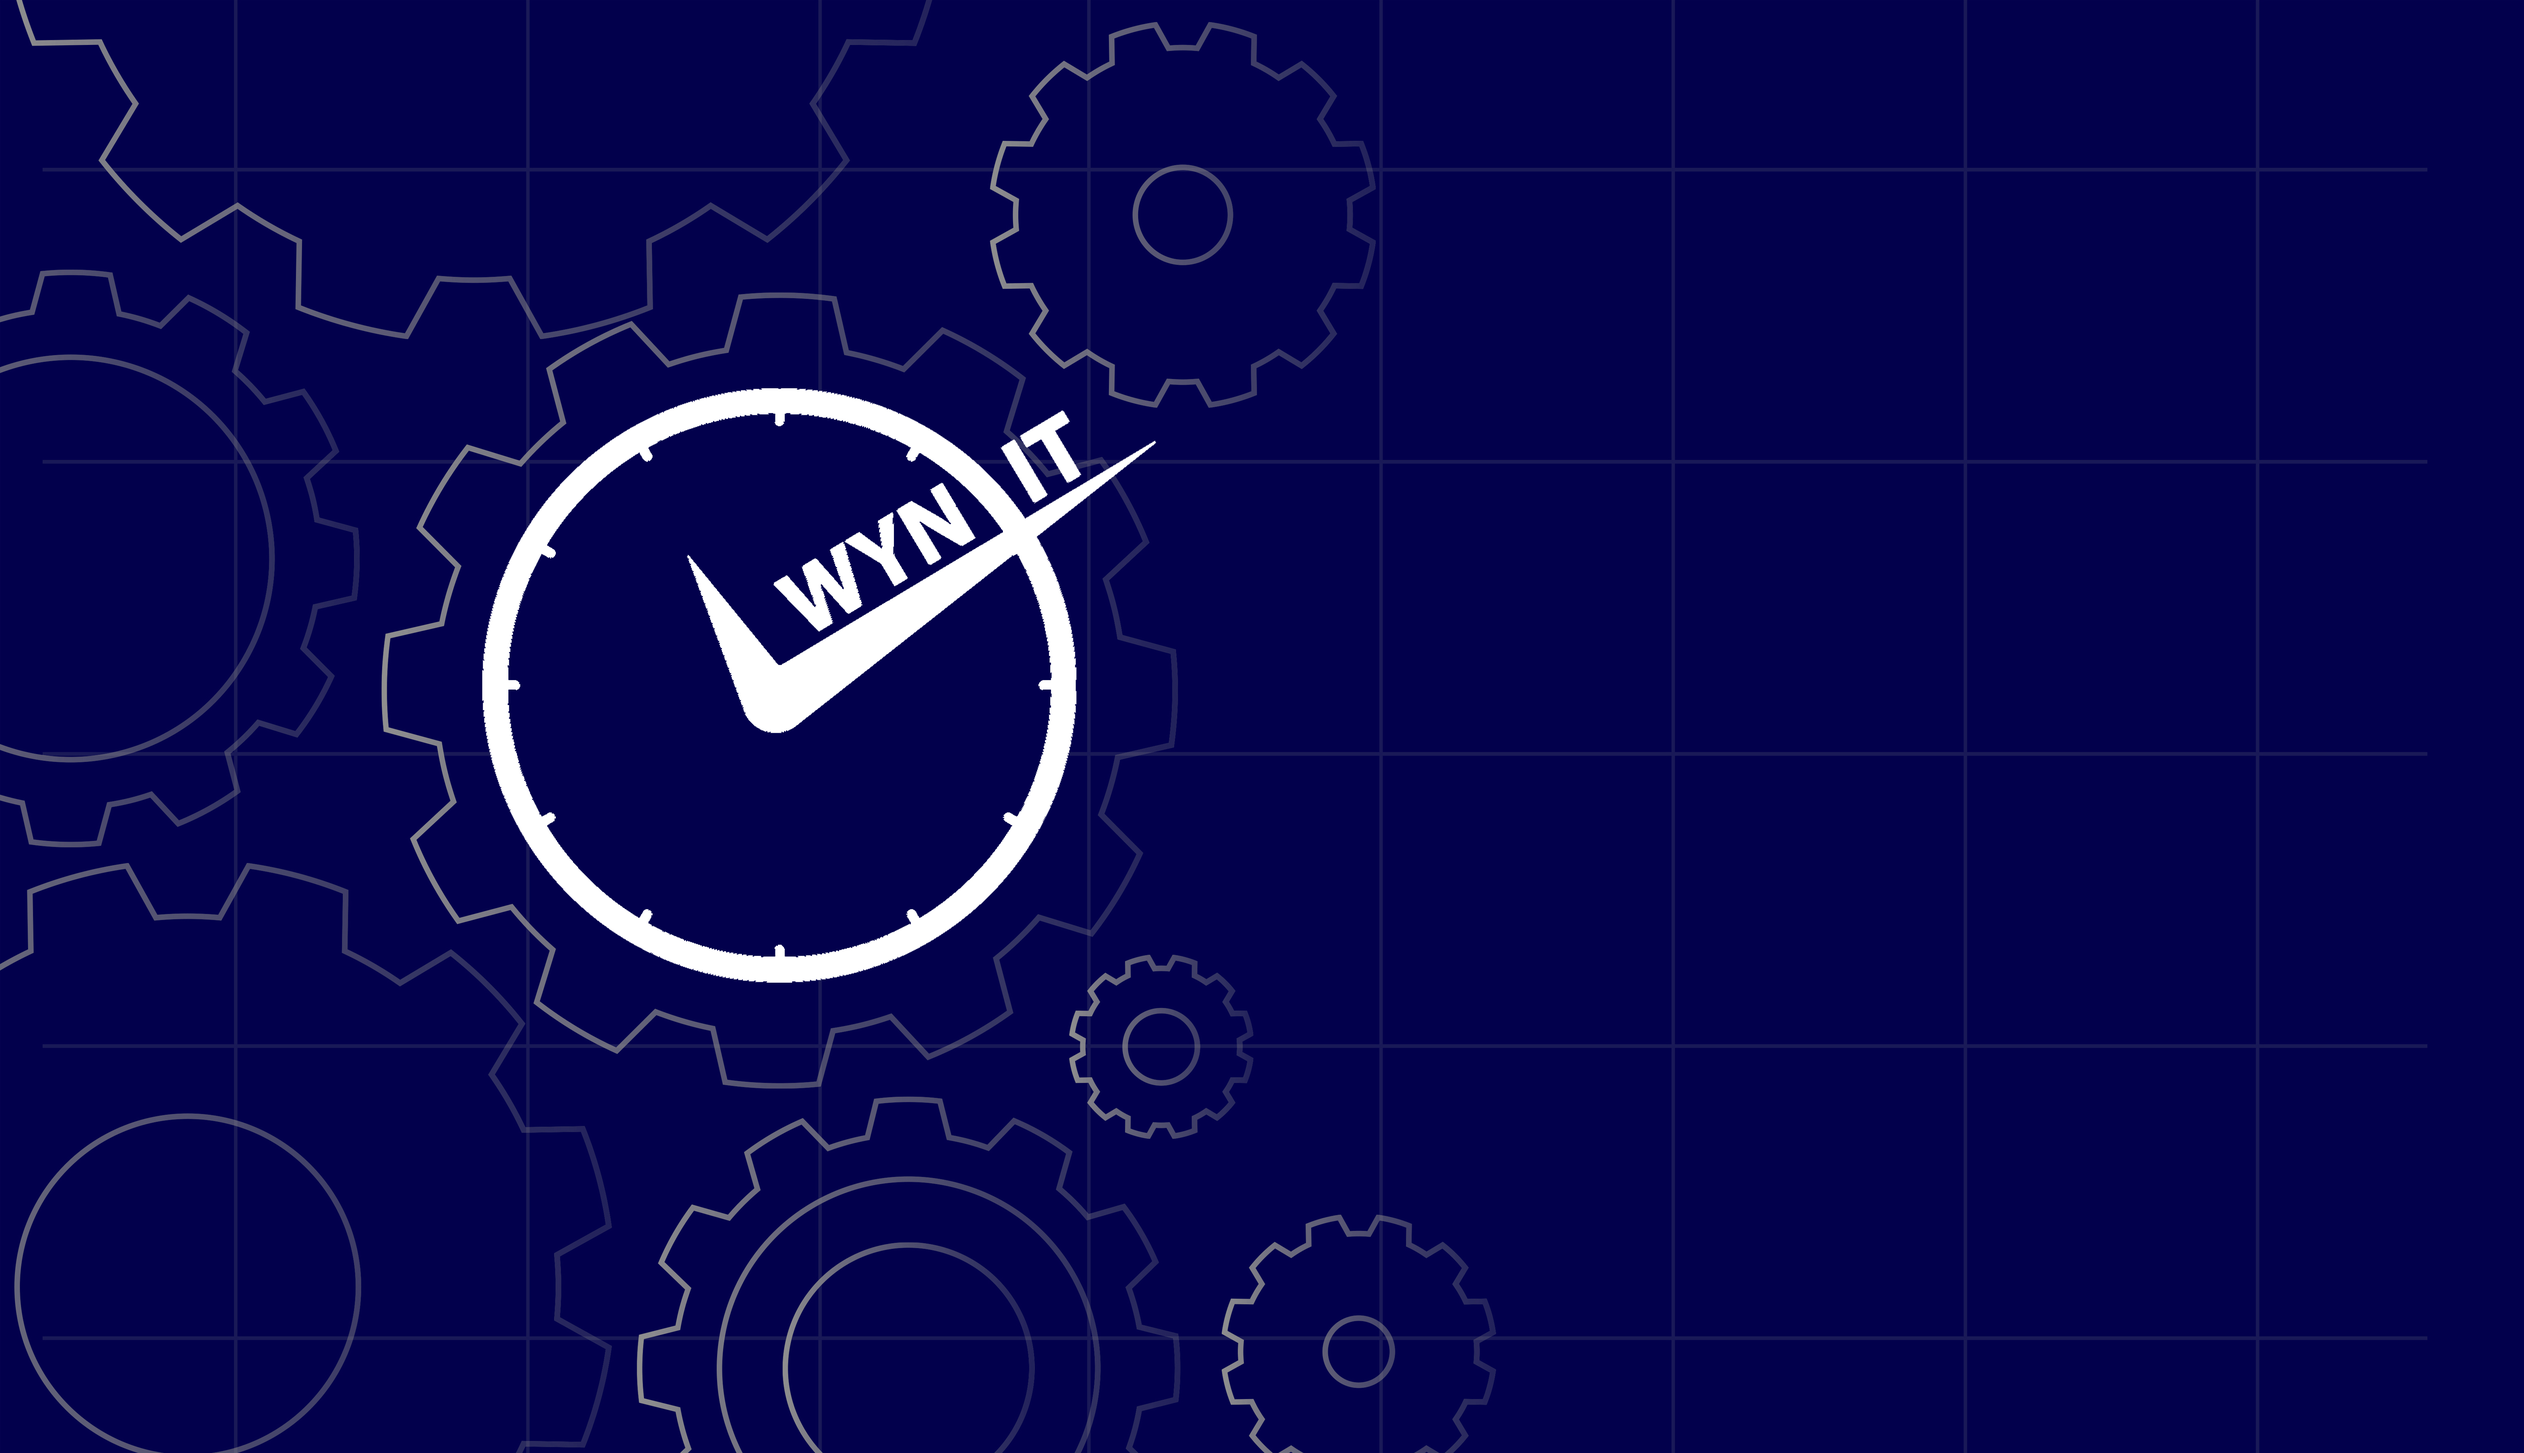
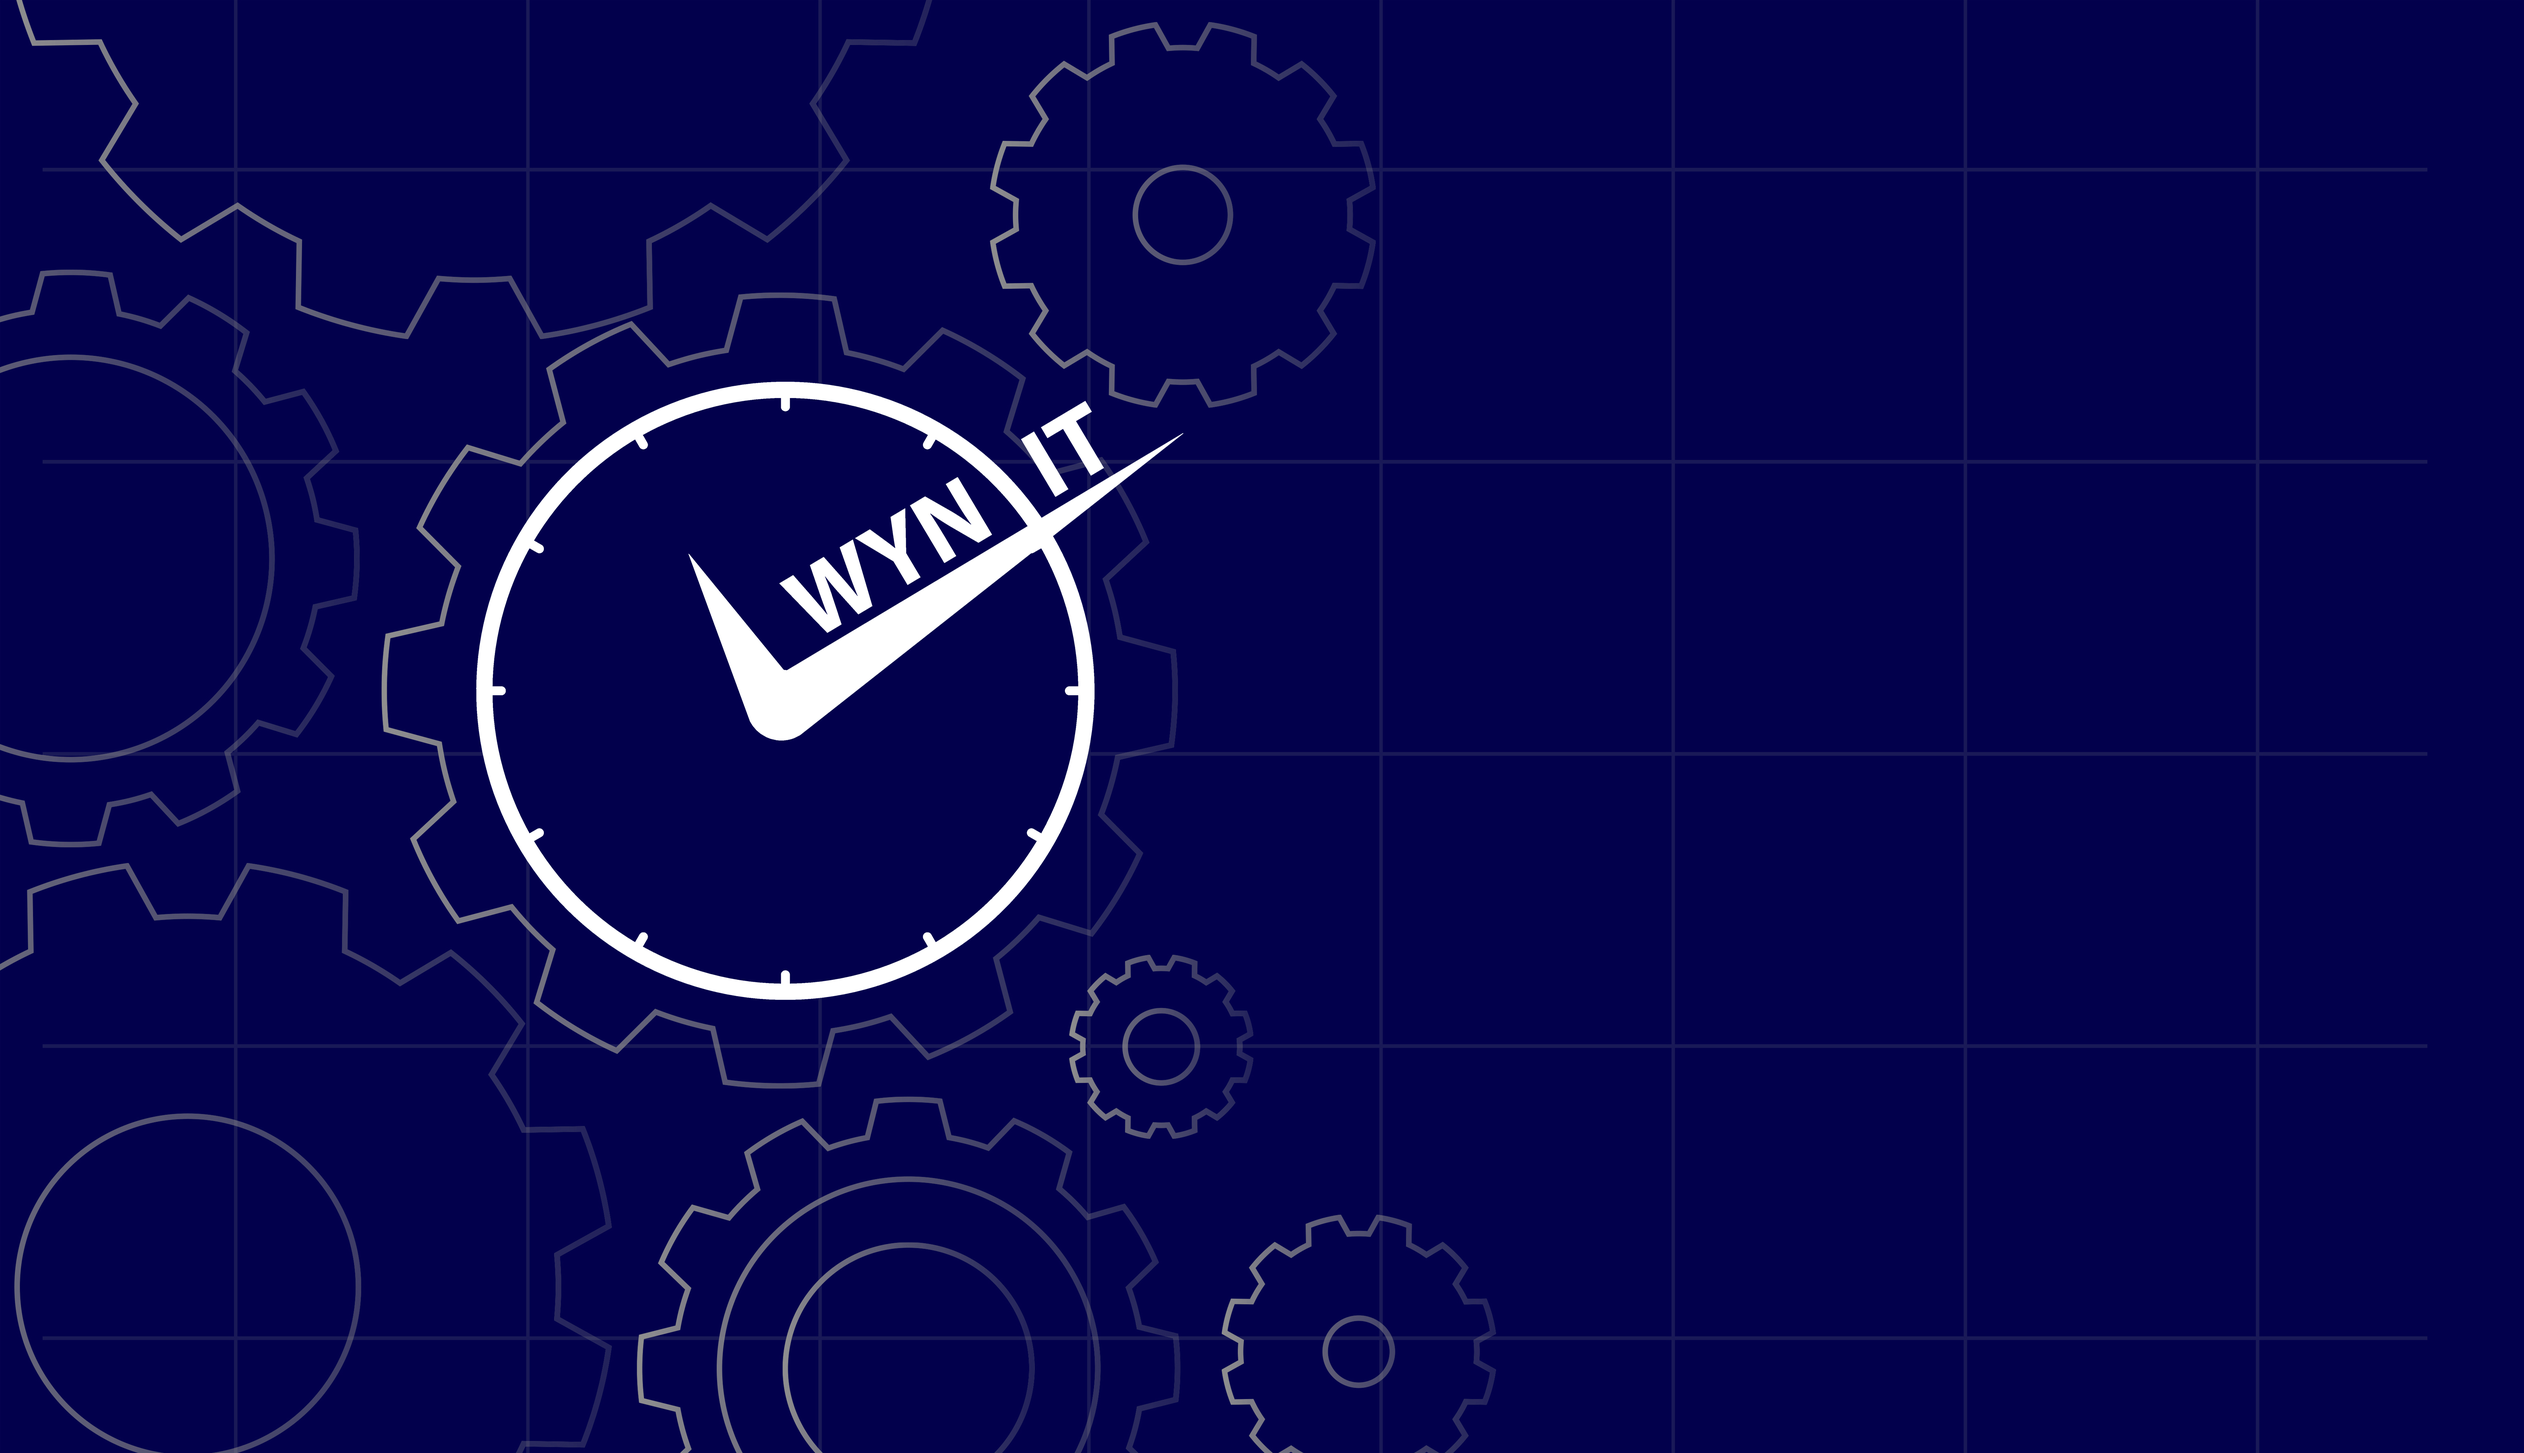
homepage clean up and variable rename

Changed region(s): [[0.2186, 0.2495, 0.4684, 0.6861], [0.1873, 0.3119, 0.2498, 0.5926]]

diff --git a/client/src/components/TimerClock.jsx b/client/src/components/TimerClock.jsx
@@ -11,7 +11,7 @@ import { AppContext } from '../context/AppContext';
 import TimerPostModal from './TimerPostModal';
 import { motion } from 'framer-motion';
 
-const TimerClock2 = () => {
+const TimerClock = () => {
   const {
     currentUser,
     adder,
@@ -125,8 +125,8 @@ const TimerClock2 = () => {
 
   return (
     <div className="App">
-      <div id="pomodoro-timer" style={{ marginBottom: '20px' }}>
-        <div>
+      <div id="pomodoro-timer">
+        <div style={{ marginBottom: '-30%' }}>
           <motion.svg
             width="400"
             height="400"
@@ -161,7 +161,13 @@ const TimerClock2 = () => {
         a 90,90 0 1,0 -180,0
         "
             />
-            <text x="135" y="220" fill="white" fontSize="50px">
+            <text
+              x="135"
+              y="220"
+              fill="white"
+              fontSize="40pt"
+              fontWeight="bold"
+            >
               {' '}
               {makeMeTwoDigits(timeInMinutes)}:{makeMeTwoDigits(timeInSeconds)}
             </text>
@@ -169,7 +175,7 @@ const TimerClock2 = () => {
         </div>
       </div>
       <MDBAnimation
-        // style={{ marginTop: '-10px' }}
+        style={{ marginTop: '18%' }}
         type="pulse"
         count={7}
         duration="300ms"
@@ -184,7 +190,7 @@ const TimerClock2 = () => {
         </MDBBtn>
       </MDBAnimation>
 
-      <MDBContainer style={{ marginTop: '-10px' }}>
+      <MDBContainer>
         <form onSubmit={handleBreakTime}>
           <MDBInput
             label="Break Time"
@@ -197,13 +203,12 @@ const TimerClock2 = () => {
             type="submit"
             gradient="blue"
             size="md"
-            style={{ marginTop: '-5%' }}
           >
             SET BREAK
           </MDBBtn>
         </form>
       </MDBContainer>
-      <MDBContainer style={{ marginTop: '-10px' }}>
+      <MDBContainer>
         <form onSubmit={handleWorkTime}>
           <MDBInput
             label="Work Time"
@@ -216,7 +221,6 @@ const TimerClock2 = () => {
             type="submit"
             gradient="peach"
             size="md"
-            style={{ marginTop: '-5%' }}
           >
             SET WORK
           </MDBBtn>
@@ -230,4 +234,4 @@ const TimerClock2 = () => {
   );
 };
 
-export default TimerClock2;
+export default TimerClock;

diff --git a/client/src/pages/Home.jsx b/client/src/pages/Home.jsx
@@ -1,7 +1,6 @@
 import React from 'react';
 import { MDBContainer, MDBView, MDBRow, MDBCol, MDBTypography } from 'mdbreact';
-import TimerClock from '../components/TimerClock';
-import logo from '../Assets/logo.png';
+import TimerClock2 from '../components/TimerClock';
 import Wyntank_background from '../Assets/WynBackground.jpg';
 import Copyright from '../components/Copyright';
 import '../index.css';
@@ -13,7 +12,8 @@ const Home = () => {
       style={{
         backgroundImage: `url(${Wyntank_background})`,
         backgroundSize: 'cover',
-        height: '100vh'
+        height: '100vh',
+        width: '100vw'
       }}
     >
       <MDBView>
@@ -21,34 +21,16 @@ const Home = () => {
           fluid
           className="d-flex justify-content-center align-items-center"
         >
-          <MDBRow style={{ width: '80%' }}>
-            <MDBCol style={{ paddingBottom: '20px', paddingTop: '60px' }}>
-              {/* <MDBTypography
-                className="font-weight-bold mt-sm-5 white-text"
-                tag="h3"
-                variant="display-3"
-              >
-                WynIt.
-              </MDBTypography> */}
-            </MDBCol>
-            <MDBRow
-              style={{
-                paddingBottom: '20px',
-                paddingTop: '10px',
-                marginTop: '12%'
-              }}
-            >
-              <MDBCol md="7">
-                {/* <img src={logo} alt="logo" className="img-fluid" style={{}} /> */}
-              </MDBCol>
-              <MDBCol md="8" style={{ marginTop: '30%' }}>
+          <MDBRow style={{ marginTop: '8%' }}>
+            <MDBCol md="12" style={{ marginLeft: '59%' }}>
+              <MDBRow style={{ marginBottom: '-8%' }}>
                 <Inspire />
-                <TimerClock />
-              </MDBCol>
-            </MDBRow>
+              </MDBRow>
+              <TimerClock2 />
+            </MDBCol>
+            <Copyright />
           </MDBRow>
         </MDBContainer>
-        <Copyright />
       </MDBView>
     </div>
   );

diff --git a/client/src/components/Inspire.jsx b/client/src/components/Inspire.jsx
@@ -1,5 +1,6 @@
 import React, { useEffect, useState } from 'react';
 import axios from 'axios';
+import { MDBContainer } from 'mdbreact';
 
 const Inspire = () => {
   const [inspire, setInspire] = useState(null);
@@ -24,12 +25,16 @@ const Inspire = () => {
     return null;
   }
 
-  return <p className="qotd">{inspire.text}</p>;
-  // <>
-  //   {inspire &&
-  //     inspire.map((quotes) => <p className="qotd"> {quotes[1].text}</p>)}
-  // </>
-  //   );
+  return (
+    <MDBContainer
+      className="text-center"
+      style={{ height: '10vh', width: '30vw' }}
+    >
+      <p className="font-weight-bold white-text" style={{ fontSize: '16pt' }}>
+        {inspire.text}
+      </p>
+    </MDBContainer>
+  );
 };
 
 export default Inspire;

diff --git a/client/src/components/Nav.jsx b/client/src/components/Nav.jsx
@@ -1,5 +1,5 @@
 import React from 'react';
-import { MDBNav, MDBNavItem, MDBNavLink } from 'mdbreact';
+import { MDBNav, MDBNavItem, MDBNavLink, MDBNavbarBrand } from 'mdbreact';
 
 const Nav = () => {
   return (
@@ -8,6 +8,11 @@ const Nav = () => {
       color="blue-gradient"
       className="expand-lg fixed-top justify-content-center align-items-center"
     >
+      <MDBNavbarBrand>
+        <MDBNavLink className="white-text " to="/">
+          <strong className="white-text h3">WynIt</strong>
+        </MDBNavLink>
+      </MDBNavbarBrand>
       <MDBNavItem>
         <MDBNavLink className="white-text font-weight-bold" to="/login">
           Login

diff --git a/client/src/components/TimerPostModal.jsx b/client/src/components/TimerPostModal.jsx
@@ -15,7 +15,7 @@ import { AppContext } from '../context/AppContext';
 import { Modal } from 'react-bootstrap';
 import { session } from 'passport';
 
-const PlannedSessionAdder = () => {
+const TimerPostModal = () => {
   const [newSession, setNewSession] = useState(null);
   const [taskId, setTaskId] = useState(null);
   const {
@@ -99,4 +99,4 @@ const PlannedSessionAdder = () => {
   );
 };
 
-export default PlannedSessionAdder;
+export default TimerPostModal;

diff --git a/client/src/components/UsersNav.jsx b/client/src/components/UsersNav.jsx
@@ -40,7 +40,6 @@ const UsersNav = () => {
             <MDBIcon icon="user" className="white-text" />
           </MDBDropdownToggle>
           <MDBDropdownMenu className="dropdown-default">
-            <MDBDropdownItem href="#!">My Profile</MDBDropdownItem>
             <MDBDropdownItem href="/faqs">FAQs</MDBDropdownItem>
             <Logout />
           </MDBDropdownMenu>

diff --git a/client/src/components/timer.css b/client/src/components/timer.css
@@ -7,15 +7,12 @@
   display: flex;
   justify-content: center;
   align-items: center;
-  margin-top: 25px;
 }
 
 .timer-div {
   border: 5px solid white;
   padding: 10px;
   border-radius: 50%;
-  height: 40%;
-  width: 40%;
 }
 
 .timer {
@@ -47,7 +44,7 @@ path {
     stroke: blue;
   }
   25% {
-    stroke: purple;
+    stroke: green;
   }
   45% {
     stroke: orange;
